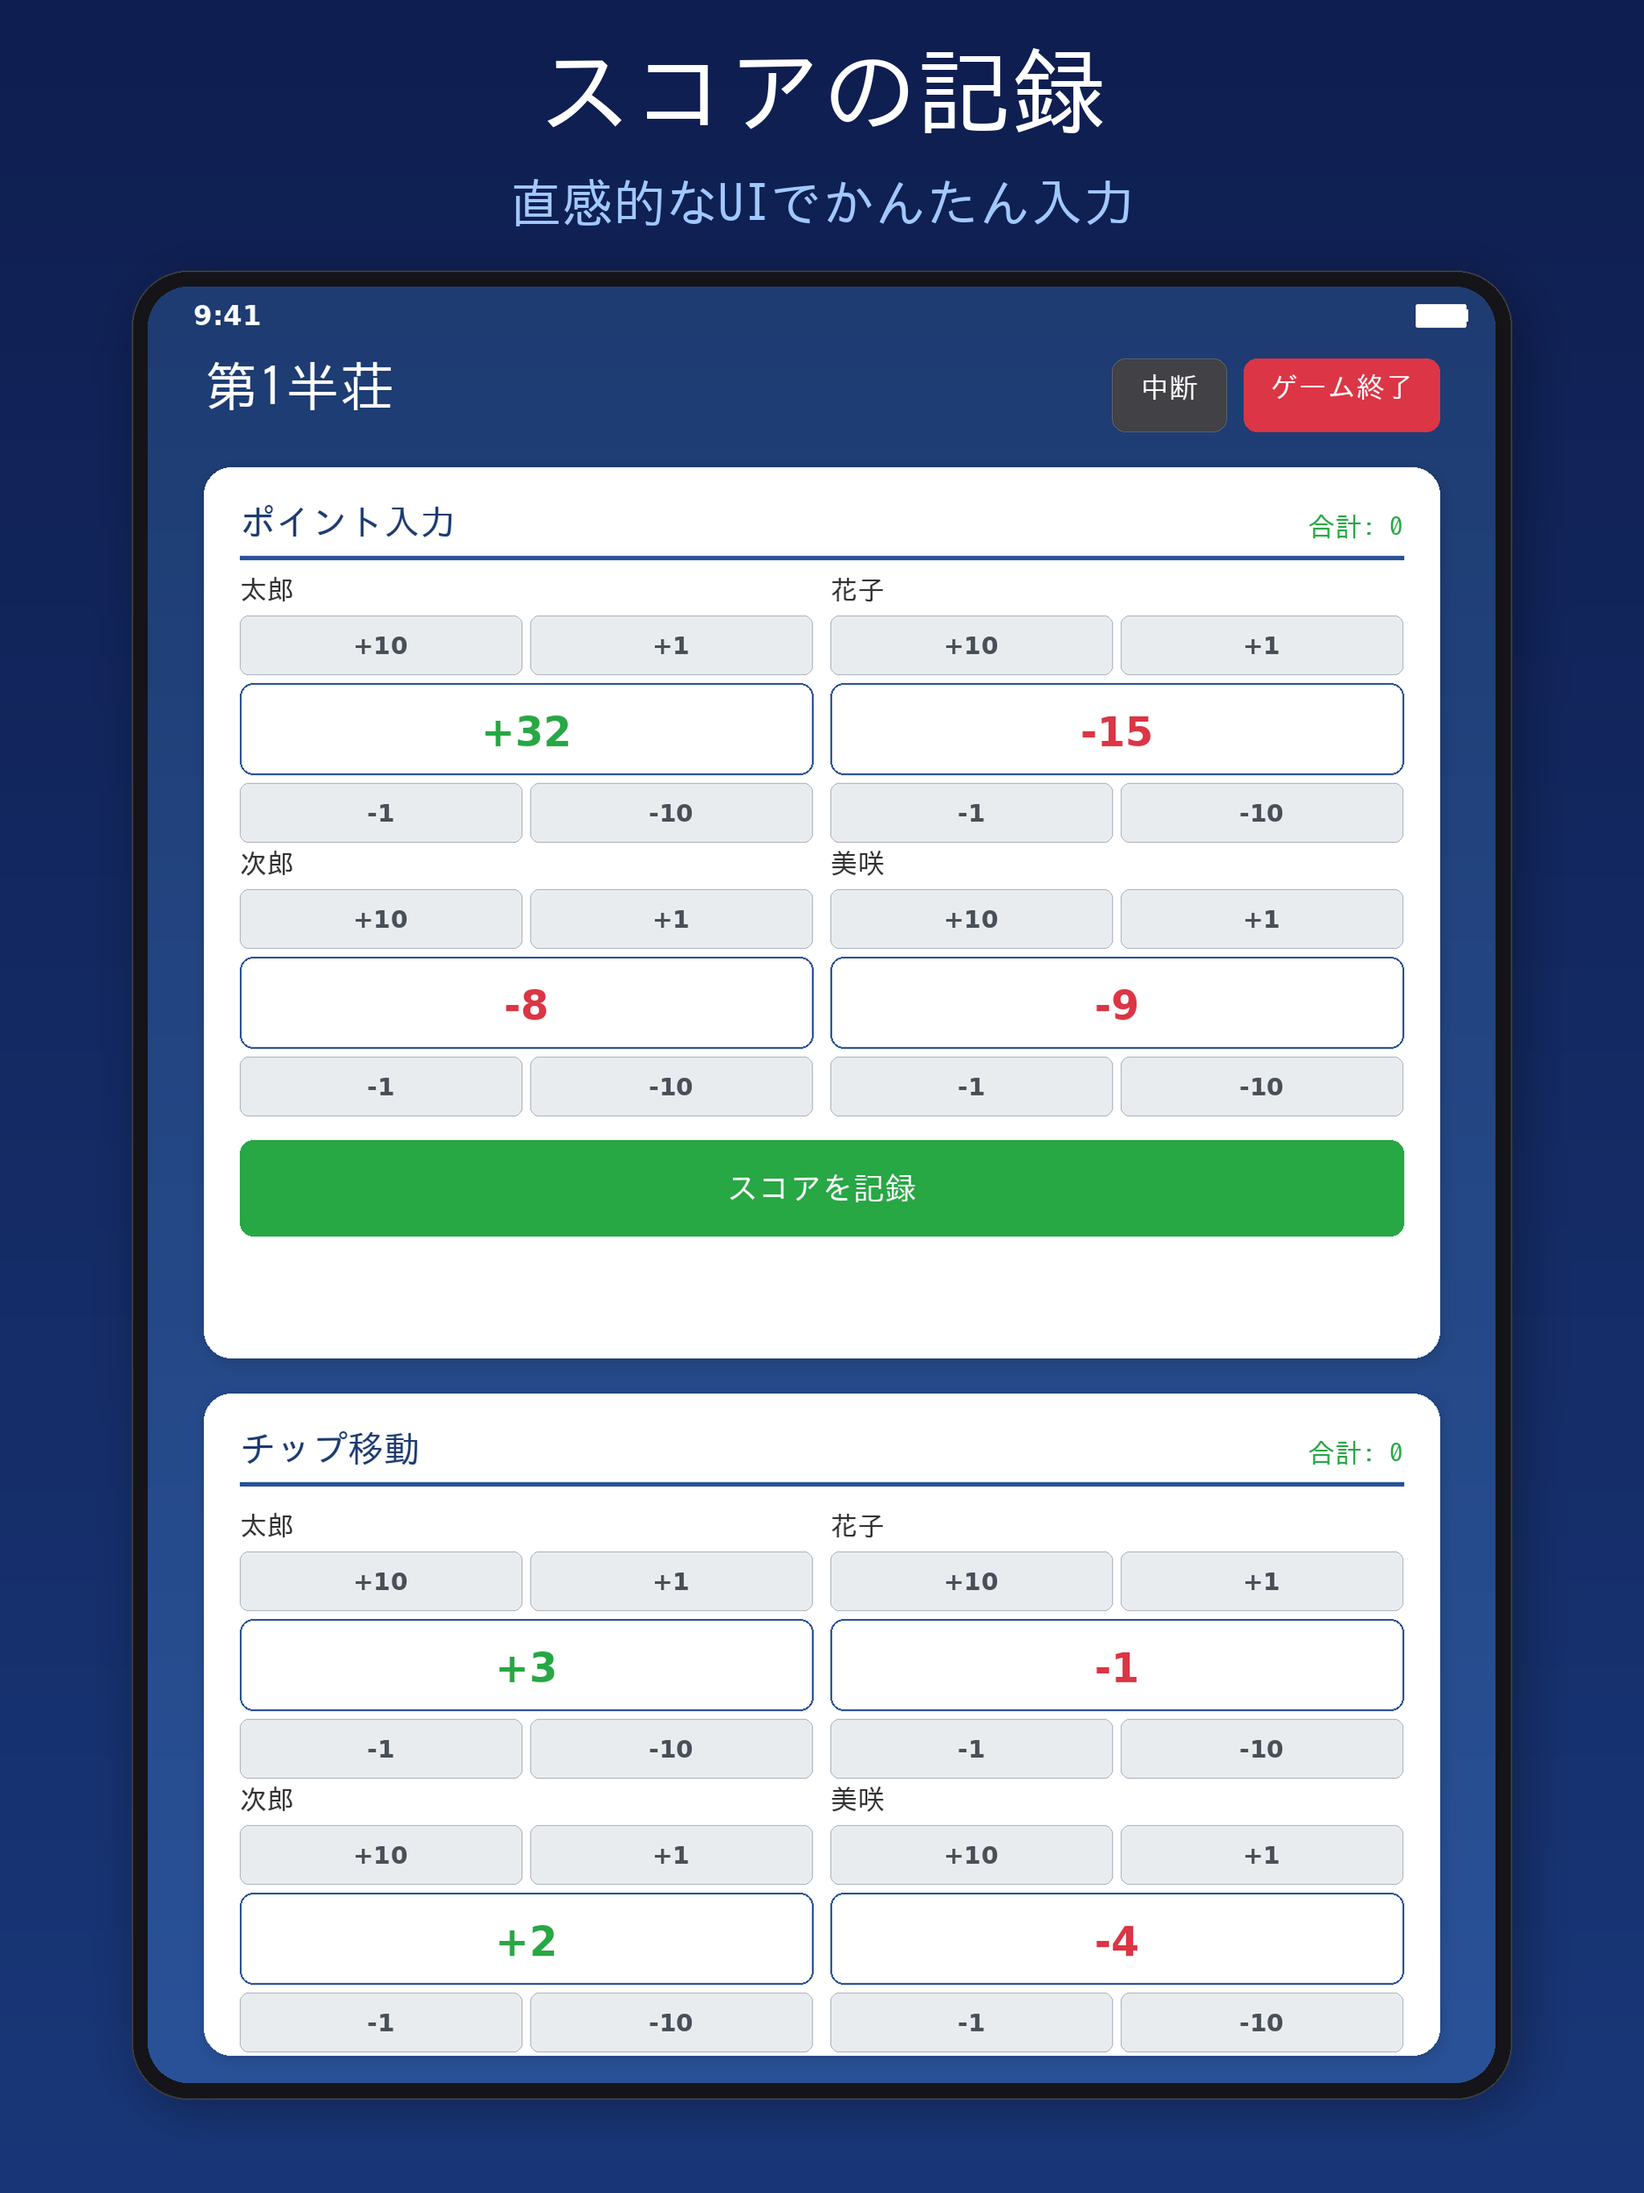
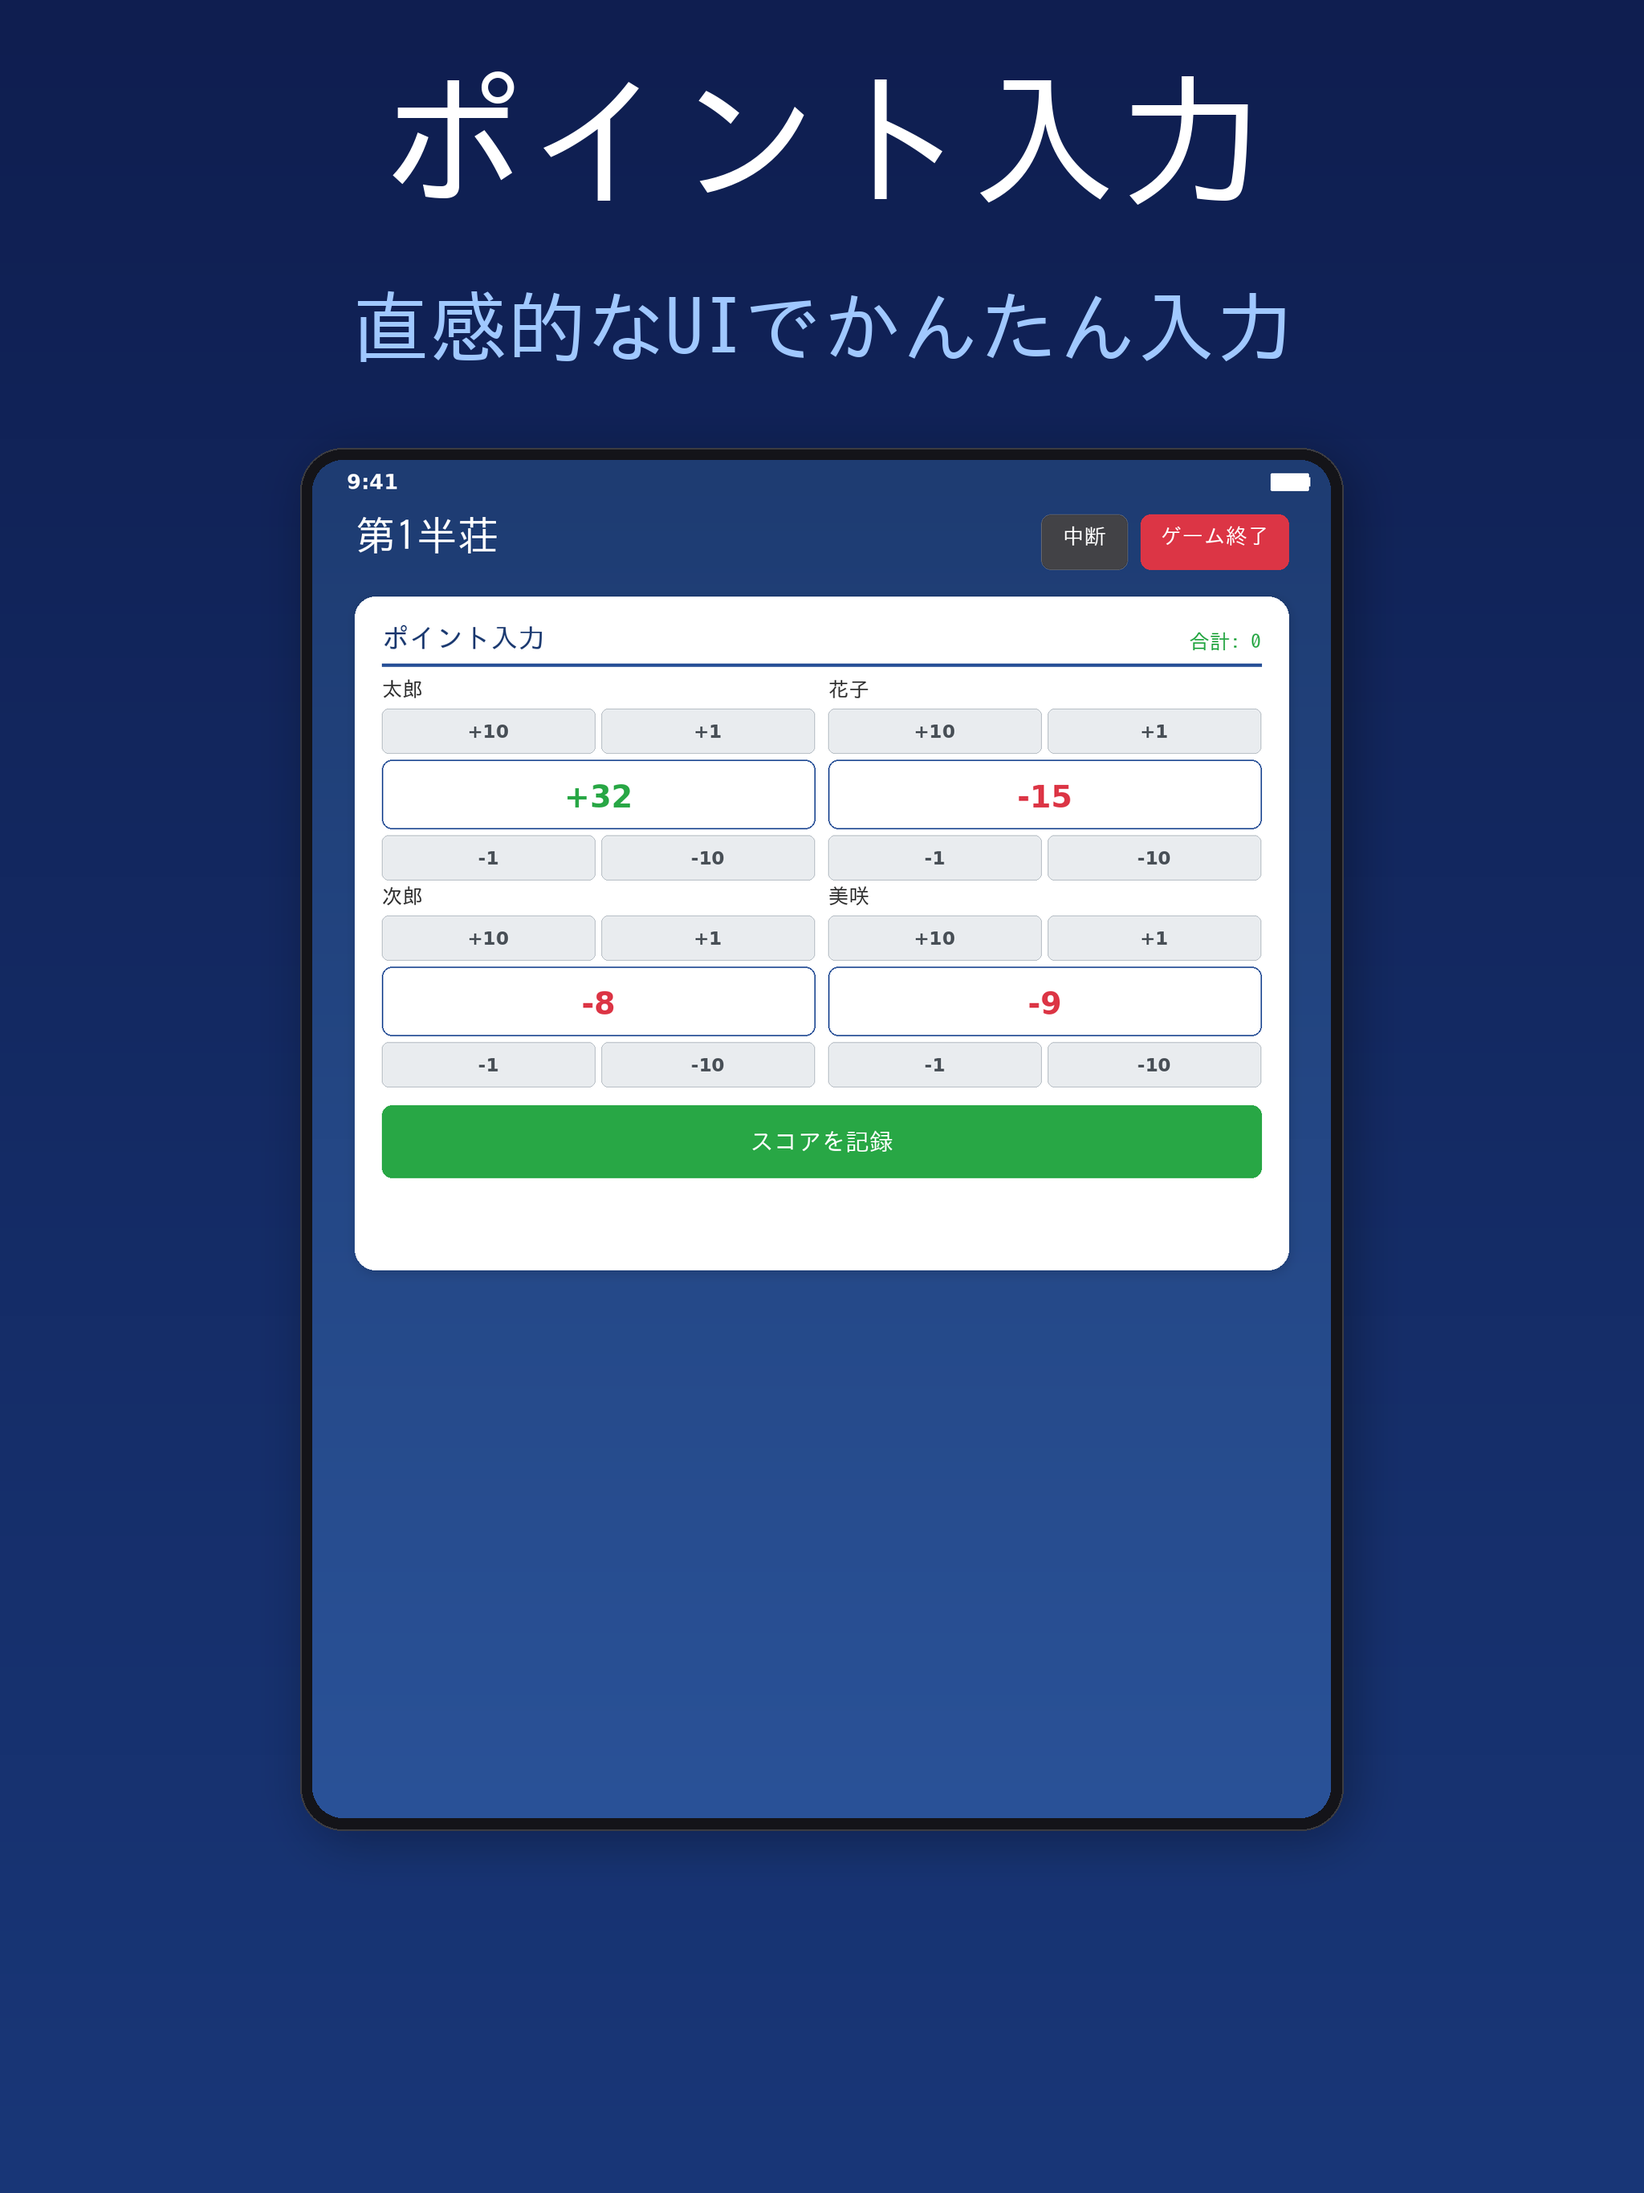
feat: プロモ画像のタイトル拡大・画面縮小、スコアとチップを別画面に分離
- create_promo_frame: タイトルフォント 0.058→0.09、サブタイトル 0.032→0.048、
  デバイスフレーム 0.82→0.62 に変更しApp Store上での視認性を向上
- promo_2 のスコア入力画面からチップ移動を除去（ポイント入力のみ）
- promo_3_chip を新規追加（チップ移動専用画面）
- 5枚→6枚構成に変更、ファイル名をリナンバー

https://claude.ai/code/session_01Q6nhLi3LEqTLgYHiVa6uSf

diff --git a/generate_assets.py b/generate_assets.py
@@ -3,8 +3,8 @@
 
 Generates:
   - icon.png, adaptive-icon.png, splash.png, favicon.png (app assets)
-  - iphone/promo_1_setup.png ... promo_5_share.png (5 iPhone promotional screenshots)
-  - ipad/promo_1_setup.png ... promo_5_share.png (5 iPad promotional screenshots)
+  - iphone/promo_1_setup.png ... promo_6_share.png (6 iPhone promotional screenshots)
+  - ipad/promo_1_setup.png ... promo_6_share.png (6 iPad promotional screenshots)
 """
 
 from PIL import Image, ImageDraw, ImageFont, ImageFilter
@@ -461,23 +461,23 @@ def create_promo_frame(phone_img, title_text=None, subtitle_text=None, config=IP
     draw_gradient_bg(img, (15, 30, 80), (25, 55, 120))
     draw = ImageDraw.Draw(img)
 
-    top_y = int(promo_h * 0.02)
+    top_y = int(promo_h * 0.03)
 
-    # Title text
+    # Title text (large enough to be visible on App Store listing)
     if title_text:
-        title_font_size = int(promo_w * 0.058)
+        title_font_size = int(promo_w * 0.09)
         tf = font(title_font_size, jp=True)
         draw_centered_text(draw, title_text, promo_w // 2, top_y, tf, WHITE)
-        top_y += int(title_font_size * 1.4)
+        top_y += int(title_font_size * 1.5)
 
     if subtitle_text:
-        sub_font_size = int(promo_w * 0.032)
+        sub_font_size = int(promo_w * 0.048)
         sf = font(sub_font_size, jp=True)
         draw_centered_text(draw, subtitle_text, promo_w // 2, top_y, sf, (160, 200, 255))
-        top_y += int(sub_font_size * 1.4)
+        top_y += int(sub_font_size * 1.5)
 
-    # Device frame
-    phone_w = int(promo_w * 0.82)
+    # Device frame (smaller to give more space to text)
+    phone_w = int(promo_w * 0.62)
     phone_h = int(phone_w * screen_h / screen_w)
     phone_scaled = phone_img.resize((phone_w, phone_h), Image.LANCZOS)
 
@@ -490,7 +490,7 @@ def create_promo_frame(phone_img, title_text=None, subtitle_text=None, config=IP
         corner_r = int(phone_w * 0.055)
 
     px = (promo_w - phone_w) // 2 - bezel
-    py = top_y + int(promo_h * 0.01)
+    py = top_y + int(promo_h * 0.02)
 
     # Shadow
     shadow = Image.new('RGBA', img.size, (0, 0, 0, 0))
@@ -643,19 +643,14 @@ def generate_promo_setup(output_path, config=IPHONE):
 
 # ── Promo 2: Score Input Screen ──
 
-def generate_promo_score(output_path, config=IPHONE):
-    """Game screen with score drum roll input."""
-    ps = PhoneScreen(config)
+def _draw_game_header(ps, hanchan_label="第1半荘"):
+    """Draw the common game screen header with suspend/finish buttons."""
     d = ps.draw
     s = ps._s
     pad = ps.pad
-
-    ps.draw_status_bar()
-
-    # Header: 第1半荘 | [中断] [ゲーム終了]
     hy = ps.y + s(4)
     hf = font(s(24), jp=True)
-    d.text((pad, hy), "第1半荘", fill=WHITE, font=hf)
+    d.text((pad, hy), hanchan_label, fill=WHITE, font=hf)
 
     # Suspend button
     bx = ps.w - pad - s(86) - s(8) - s(50)
@@ -668,6 +663,19 @@ def generate_promo_score(output_path, config=IPHONE):
     fx = ps.w - pad - s(86)
     rrect(d, (fx, hy, fx + s(86), hy + s(32)), s(6), fill=RED)
     draw_centered_text(d, "ゲーム終了", fx + s(43), hy + s(6), bf, WHITE)
+
+    return hy
+
+
+def generate_promo_score(output_path, config=IPHONE):
+    """Game screen with score drum roll input (score only, no chip)."""
+    ps = PhoneScreen(config)
+    d = ps.draw
+    s = ps._s
+    pad = ps.pad
+
+    ps.draw_status_bar()
+    hy = _draw_game_header(ps)
 
     card_y = hy + s(48)
     card_x = pad
@@ -700,27 +708,57 @@ def generate_promo_score(output_path, config=IPHONE):
     btn_y = cy + 2 * dr_row_h + s(8)
     ps.draw_button(cx, btn_y, cw, s(42), "スコアを記録", GREEN)
 
-    # ── チップ移動 Card (2x2 grid, all 4 players) ──
-    chip_y = card_y + card_h + s(16)
-    chip_h = s(290)
-    ps.draw_card(card_x, chip_y, card_w, chip_h)
-    d = ps.draw
-    cy2 = chip_y + inner_pad
-    ps.draw_section_title(cx, cy2, cw, "チップ移動", "合計: 0")
-    d = ps.draw
-    cy2 += s(36)
+    phone_img = ps.get_image()
+    promo = create_promo_frame(phone_img, "ポイント入力", "直感的なUIでかんたん入力", config)
+    promo.save(output_path, 'PNG')
+    print(f"Generated: {output_path}")
 
-    # Show all 4 chip drum roll inputs in 2x2 grid
+
+# ── Promo 3: Chip Input Screen ──
+
+def generate_promo_chip(output_path, config=IPHONE):
+    """Game screen with chip drum roll input (chip only)."""
+    ps = PhoneScreen(config)
+    d = ps.draw
+    s = ps._s
+    pad = ps.pad
+
+    ps.draw_status_bar()
+    hy = _draw_game_header(ps)
+
+    card_y = hy + s(48)
+    card_x = pad
+    card_w = ps.w - 2 * pad
+    inner_pad = s(16)
+    cx = card_x + inner_pad
+    cw = card_w - 2 * inner_pad
+
+    # ── チップ移動 Card (2x2 grid, all 4 players) ──
+    chip_h = s(390)
+    ps.draw_card(card_x, card_y, card_w, chip_h)
+    d = ps.draw
+    cy = card_y + inner_pad
+    cy = ps.draw_section_title(cx, cy, cw, "チップ移動", "合計: 0")
+    d = ps.draw
+
+    # DrumRoll inputs (2x2 grid)
+    dr_gap = s(8)
+    dr_w = (cw - dr_gap) // 2
+    dr_row_h = s(120)
     chip_scores = [("太郎", 3), ("花子", -1), ("次郎", 2), ("美咲", -4)]
     for i, (name, val) in enumerate(chip_scores):
         col = i % 2
         row = i // 2
-        dx2 = cx + col * (dr_w + dr_gap)
-        dy2 = cy2 + row * dr_row_h
-        ps.draw_drumroll_input(dx2, dy2, name, val, box_w=dr_w)
+        dx = cx + col * (dr_w + dr_gap)
+        dy = cy + row * dr_row_h
+        ps.draw_drumroll_input(dx, dy, name, val, box_w=dr_w)
+
+    # チップを記録 button
+    btn_y = cy + 2 * dr_row_h + s(8)
+    ps.draw_button(cx, btn_y, cw, s(42), "チップを記録", GREEN)
 
     phone_img = ps.get_image()
-    promo = create_promo_frame(phone_img, "スコアの記録", "直感的なUIでかんたん入力", config)
+    promo = create_promo_frame(phone_img, "チップ移動", "チップ枚数もまとめて管理", config)
     promo.save(output_path, 'PNG')
     print(f"Generated: {output_path}")
 
@@ -735,21 +773,7 @@ def generate_promo_summary(output_path, config=IPHONE):
     pad = ps.pad
 
     ps.draw_status_bar()
-
-    # Header
-    hy = ps.y + s(4)
-    hf = font(s(24), jp=True)
-    d.text((pad, hy), "第3半荘", fill=WHITE, font=hf)
-
-    # Buttons
-    bx = ps.w - pad - s(86) - s(8) - s(50)
-    bf = font(s(13), jp=True)
-    rrect(d, (bx, hy, bx + s(50), hy + s(32)), s(6),
-           fill=(255, 255, 255, 50), outline=(255, 255, 255, 100), width=1)
-    draw_centered_text(d, "中断", bx + s(25), hy + s(6), bf, WHITE)
-    fx = ps.w - pad - s(86)
-    rrect(d, (fx, hy, fx + s(86), hy + s(32)), s(6), fill=RED)
-    draw_centered_text(d, "ゲーム終了", fx + s(43), hy + s(6), bf, WHITE)
+    hy = _draw_game_header(ps, "第3半荘")
 
     card_y = hy + s(48)
     card_x = pad
@@ -1087,13 +1111,14 @@ def generate_promo_share(output_path, config=IPHONE):
 # ══════════════════════════════════════════════
 
 def generate_all_promos(output_dir, config):
-    """Generate all 5 promotional screenshots for a given device config."""
+    """Generate all 6 promotional screenshots for a given device config."""
     os.makedirs(output_dir, exist_ok=True)
     generate_promo_setup(os.path.join(output_dir, 'promo_1_setup.png'), config)
     generate_promo_score(os.path.join(output_dir, 'promo_2_score.png'), config)
-    generate_promo_summary(os.path.join(output_dir, 'promo_3_summary.png'), config)
-    generate_promo_past_games(os.path.join(output_dir, 'promo_4_past_games.png'), config)
-    generate_promo_share(os.path.join(output_dir, 'promo_5_share.png'), config)
+    generate_promo_chip(os.path.join(output_dir, 'promo_3_chip.png'), config)
+    generate_promo_summary(os.path.join(output_dir, 'promo_4_summary.png'), config)
+    generate_promo_past_games(os.path.join(output_dir, 'promo_5_past_games.png'), config)
+    generate_promo_share(os.path.join(output_dir, 'promo_6_share.png'), config)
 
 
 if __name__ == '__main__':

diff --git a/README.md b/README.md
@@ -88,9 +88,9 @@ mahjong-score-table/
 ├── assets/
 │   ├── icon.png / splash.png / favicon.png  # アプリアセット
 │   ├── iphone/                 # iPhone用プロモーション画像（1242×2688）
-│   │   └── promo_1〜5_*.png
+│   │   └── promo_1〜6_*.png
 │   └── ipad/                   # iPad用プロモーション画像（2048×2732）
-│       └── promo_1〜5_*.png
+│       └── promo_1〜6_*.png
 ├── package.json
 ├── app.json
 └── tsconfig.json
